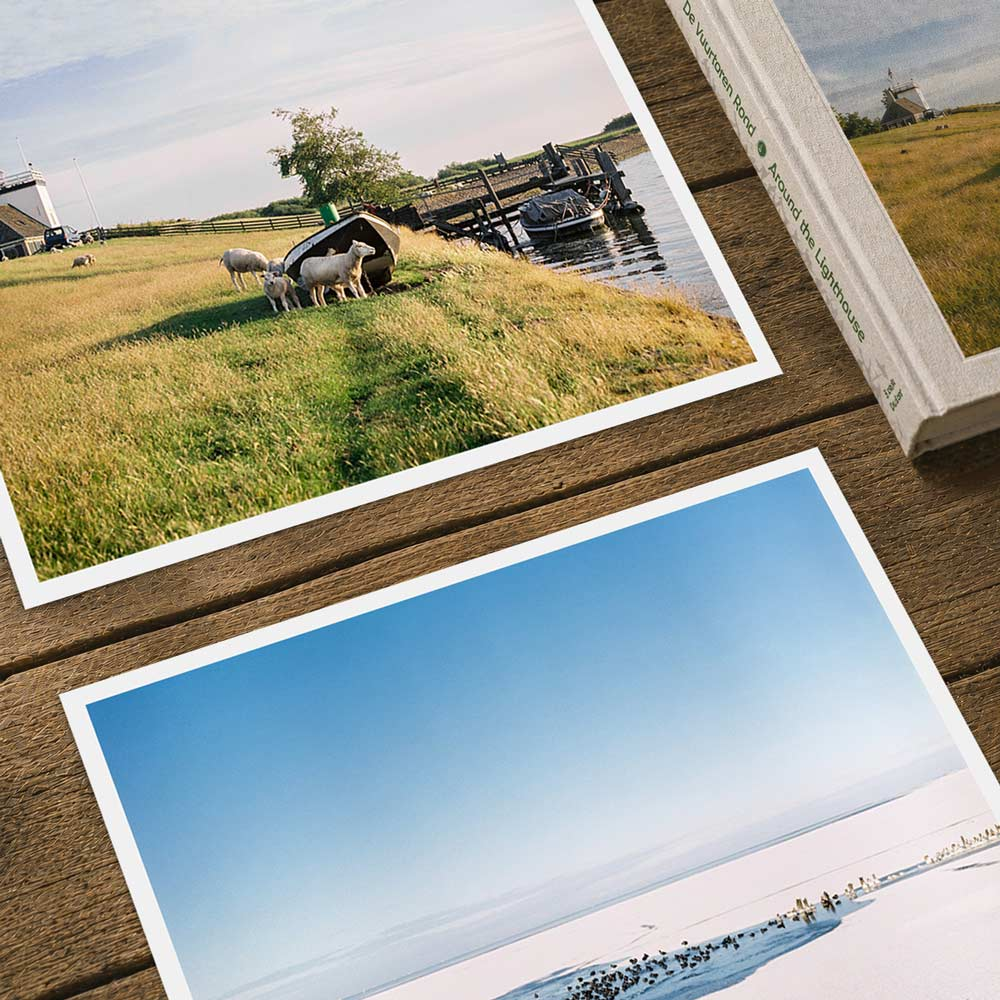
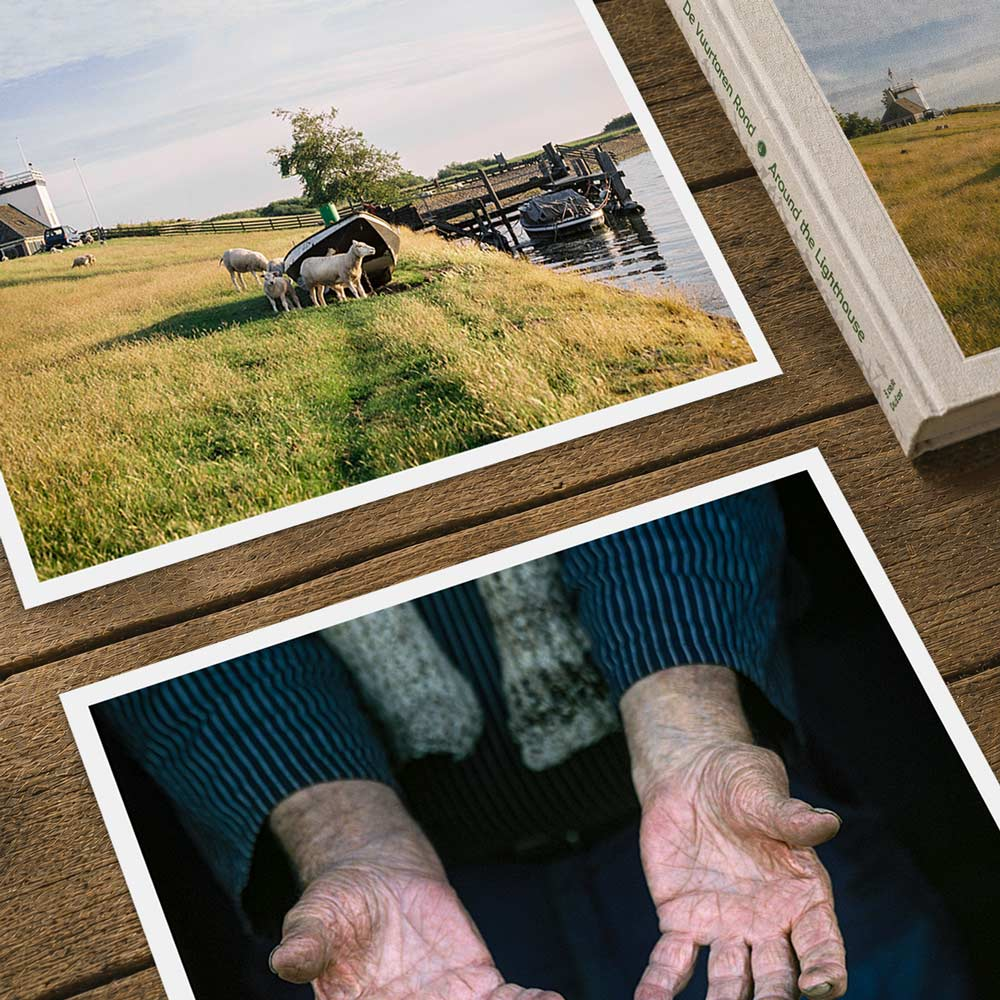
Update special edition plaatjes en tekst

diff --git a/index.html b/index.html
@@ -329,11 +329,11 @@
 				<div class="edition-copy">
 					<h2>Speciale Editie</h2>
 					<ul>
-						<li>Voor verzamelaars en fans</li>
-						<li>Boek + twee 30 x 30 cm prints</li>
-						<li>25 gelimiteerde exemplaren</li>
+						<li>25 exemplaren voor verzamelaars</li>
+						<li>Twee 30 x 30 cm coverfoto prints</li>
 						<li>Genummerd boek en prints</li>
-						<li>Gesigneerd door Loek &amp; Jasper</li>
+						<li>Prints gesigneerd door Loek Buter</li>
+						<li>Boek gesigneerd door beide makers</li>
 						<li>Nederlands en <a href="/en/" class="lang-switch" data-lang-pref="en" lang="en" hreflang="en">Engels</a></li>
 					</ul>
 					<button

diff --git a/en/index.html b/en/index.html
@@ -330,11 +330,11 @@
 				<div class="edition-copy">
 					<h2>Special Edition</h2>
 					<ul>
-						<li>For collectors and fans</li>
-						<li>Book + two 30 x 30 cm prints</li>
-						<li>25 limited copies</li>
+						<li>25 copies for collectors</li>
+						<li>Two 30 x 30 cm cover photo prints</li>
 						<li>Numbered book and prints</li>
-						<li>Signed by Loek &amp; Jasper</li>
+						<li>Prints signed by Loek Buter</li>
+						<li>Book signed by both creators</li>
 						<li>English &amp; <a href="/" class="lang-switch" data-lang-pref="nl" lang="nl" hreflang="nl">Dutch</a></li>
 					</ul>
 					<button
